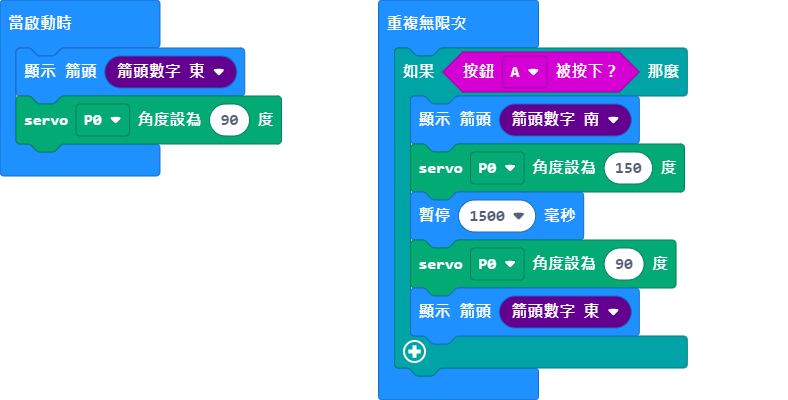
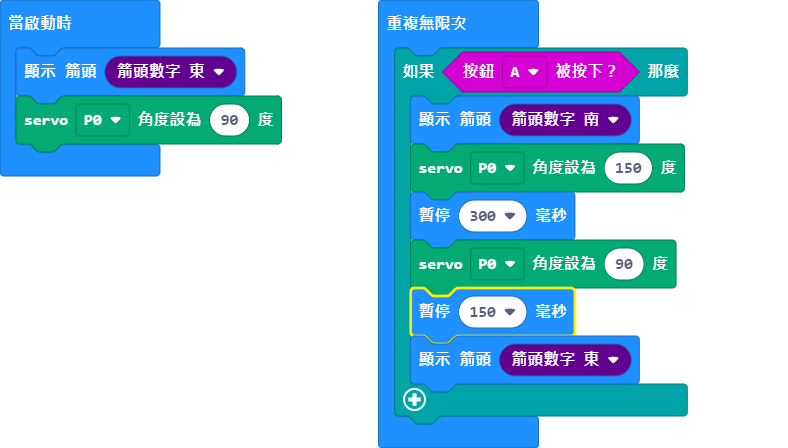
1500>300ms

Changed region(s): [[0.4873, 0.03, 0.8832, 0.96], [0.0, 0.03, 0.3655, 0.45]]

diff --git a/main.ts b/main.ts
@@ -4,8 +4,9 @@ basic.forever(function () {
     if (input.buttonIsPressed(Button.A)) {
         basic.showArrow(ArrowNames.South)
         servos.P0.setAngle(150)
-        basic.pause(1500)
+        basic.pause(300)
         servos.P0.setAngle(90)
+        basic.pause(150)
         basic.showArrow(ArrowNames.East)
     }
 })
